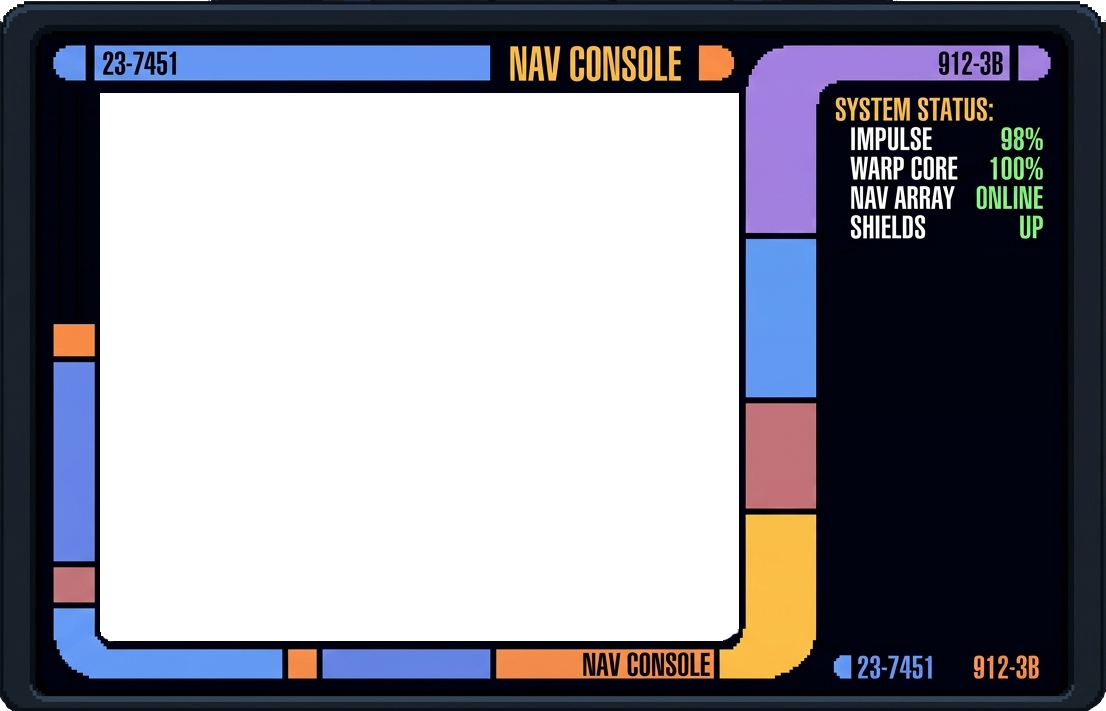
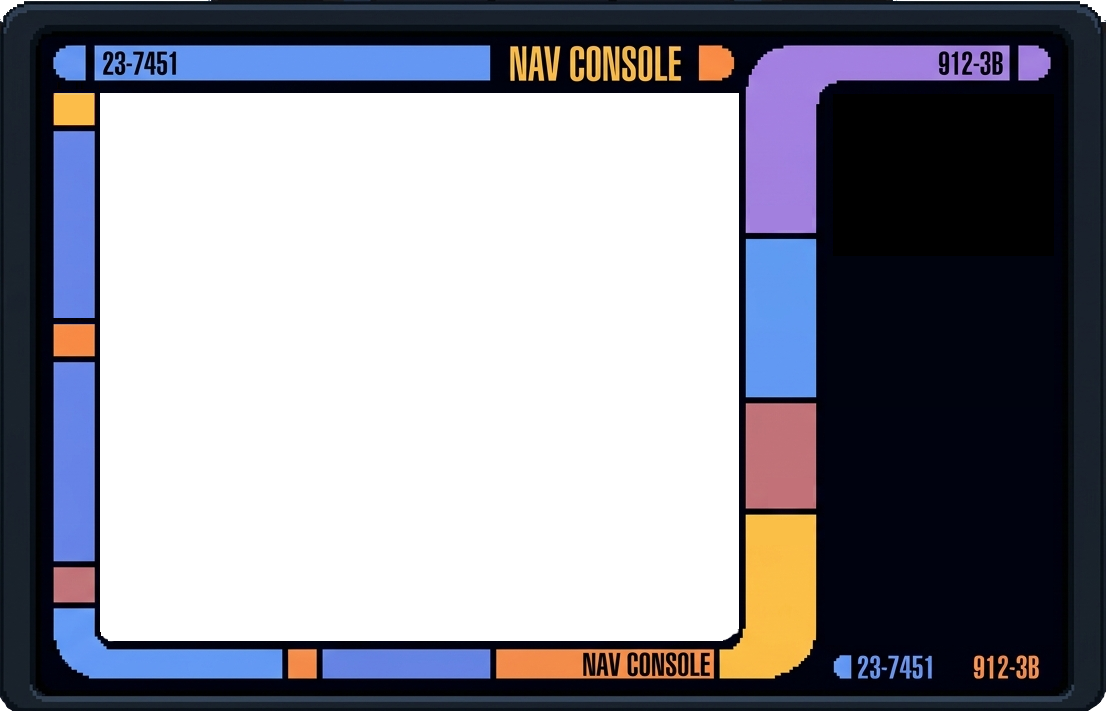
blackjack updated

Changed region(s): [[0.7378, 0.1238, 0.953, 0.3404], [0.0307, 0.1238, 0.0922, 0.4641]]

diff --git a/example/kytschi/css/dead_world.css b/example/kytschi/css/dead_world.css
@@ -8,8 +8,10 @@ html, body {
     margin: 0;
     overflow: hidden;
     background-color: #000 !important;
+    position: relative;
 }
 #dead-world {
+    position: relative;
     display: flex;
     width: 100%;
     height: 100vh;
@@ -18,6 +20,7 @@ html, body {
     background-color: #000 !important;
 }
 .dead-world-body {
+    position: relative;
     display: inline-block;
     margin: 0 auto;
     width: 1200px;
@@ -27,6 +30,7 @@ html, body {
     background-repeat: no-repeat;
 }
 .dead-world-body .move-grid {
+    position: relative;
     display: flex;
     flex-wrap: wrap;
     align-items: flex-start;
@@ -38,6 +42,7 @@ html, body {
     height: 100%;
 }
 .dead-world-body .move, .dead-world-body .action, .dead-world-body .blocked {
+    
     display: block;
     width: var(--move-size);
     height: var(--move-size);
@@ -136,20 +141,22 @@ html, body {
     background-image: url("/kytschi/dead_world/locations/location4.png");
 }
 
-#player {
+.player {
     display: block;
     position: absolute;
     flex-wrap: wrap;
     left: 0;
 }
-#player-sprite {
+.player-sprite {
     cursor: pointer;
     width: var(--move-size);
     height: var(--move-size);
-    background-color: blue;
+    background-color: rgba(142, 142, 142, 0.7);
+    border: 1px solid rgba(142, 142, 142, 1);
 }
-#player.selected #player-sprite {
-    background-color: rgb(71, 255, 74);
+.player.selected .player-sprite, .move.selected {
+    background-color: rgba(52, 115, 239, 0.5) !important;
+    border: 1px solid rgba(52, 115, 239, 1) !important;
 }
 
 .info-box {

diff --git a/example/kytschi/css/omega_doom.css b/example/kytschi/css/omega_doom.css
@@ -105,16 +105,21 @@ html, body {
     height: 711px;
     margin: 20px auto 0 auto;
     z-index: 200;
+    overflow: hidden;
 }
 #omega-doom-game .console .overlay {
     position: absolute;
 }
 #omega-doom-game .console .data {
     flex: 1;
-    margin-left: 30px;
+    margin-left: 50px;
+    background-color: var(--black);
+    width: 570px;
+    overflow: hidden;
 }
 #omega-doom-game .console .data img {
-    width: 100%;
+    min-width: 100%;
+    min-height: 100%;
 }
 #omega-doom-game .console .buttons {
     display: flex;
@@ -130,6 +135,10 @@ html, body {
 }
 #omega-doom-game .console .buttons button {
     width: 100%;
+}
+#omega-doom-game .buttons-group {
+    display: flex;
+    gap: 20px;
 }
 
 #omega-doom-game .view-screen {

diff --git a/example/kytschi/css/blackjack.css b/example/kytschi/css/blackjack.css
@@ -243,9 +243,8 @@ body {
     }
 }
 
-#blackjack .card-highlight {
-    border: 4px solid #F8B133;
-    background-color: #F8B133;
+#blackjack .card-highlight .card, #blackjack .button-highlight {
+    border: 3px solid #2B8ACA;
 }
 
 #blackjack .card-warn {